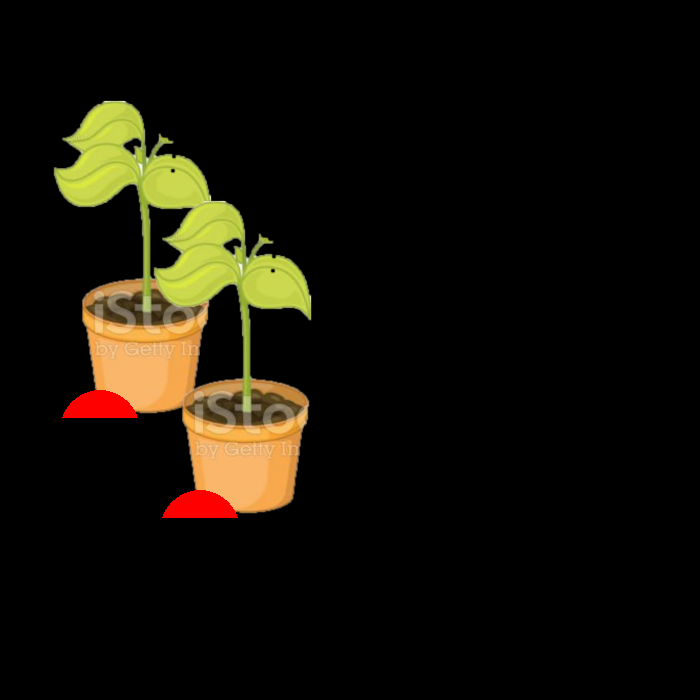
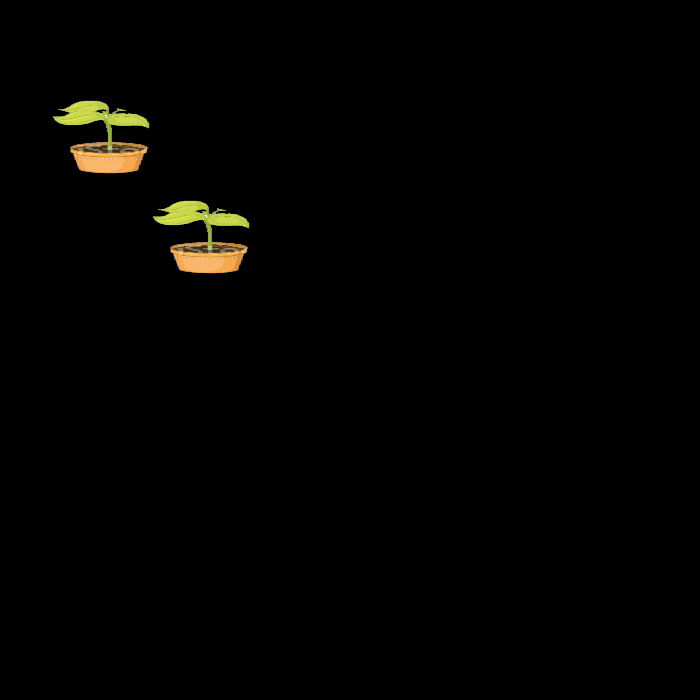
n

Changed region(s): [[0.06, 0.12, 0.45, 0.75]]

diff --git a/main.py b/main.py
@@ -5,8 +5,10 @@
 import pygame
 
 a = pygame.image.load('images/flower1.png')
+a=pygame.transform.scale(a,[100,74])
+
 pygame.draw.circle(a, [255, 0, 0], [50, 330], 40)
-# pygame.image.save(a, 'images/bbbb1.png')
+pygame.image.save(a, 'images/bbbb1.png')
 
 
 r = pygame.Surface([300, 500])
@@ -25,3 +27,5 @@ d.blit(a,(50,100))
 d.blit(a,(150,200))
 
 pygame.image.save(d,'images/ddd3.png')
+
+
